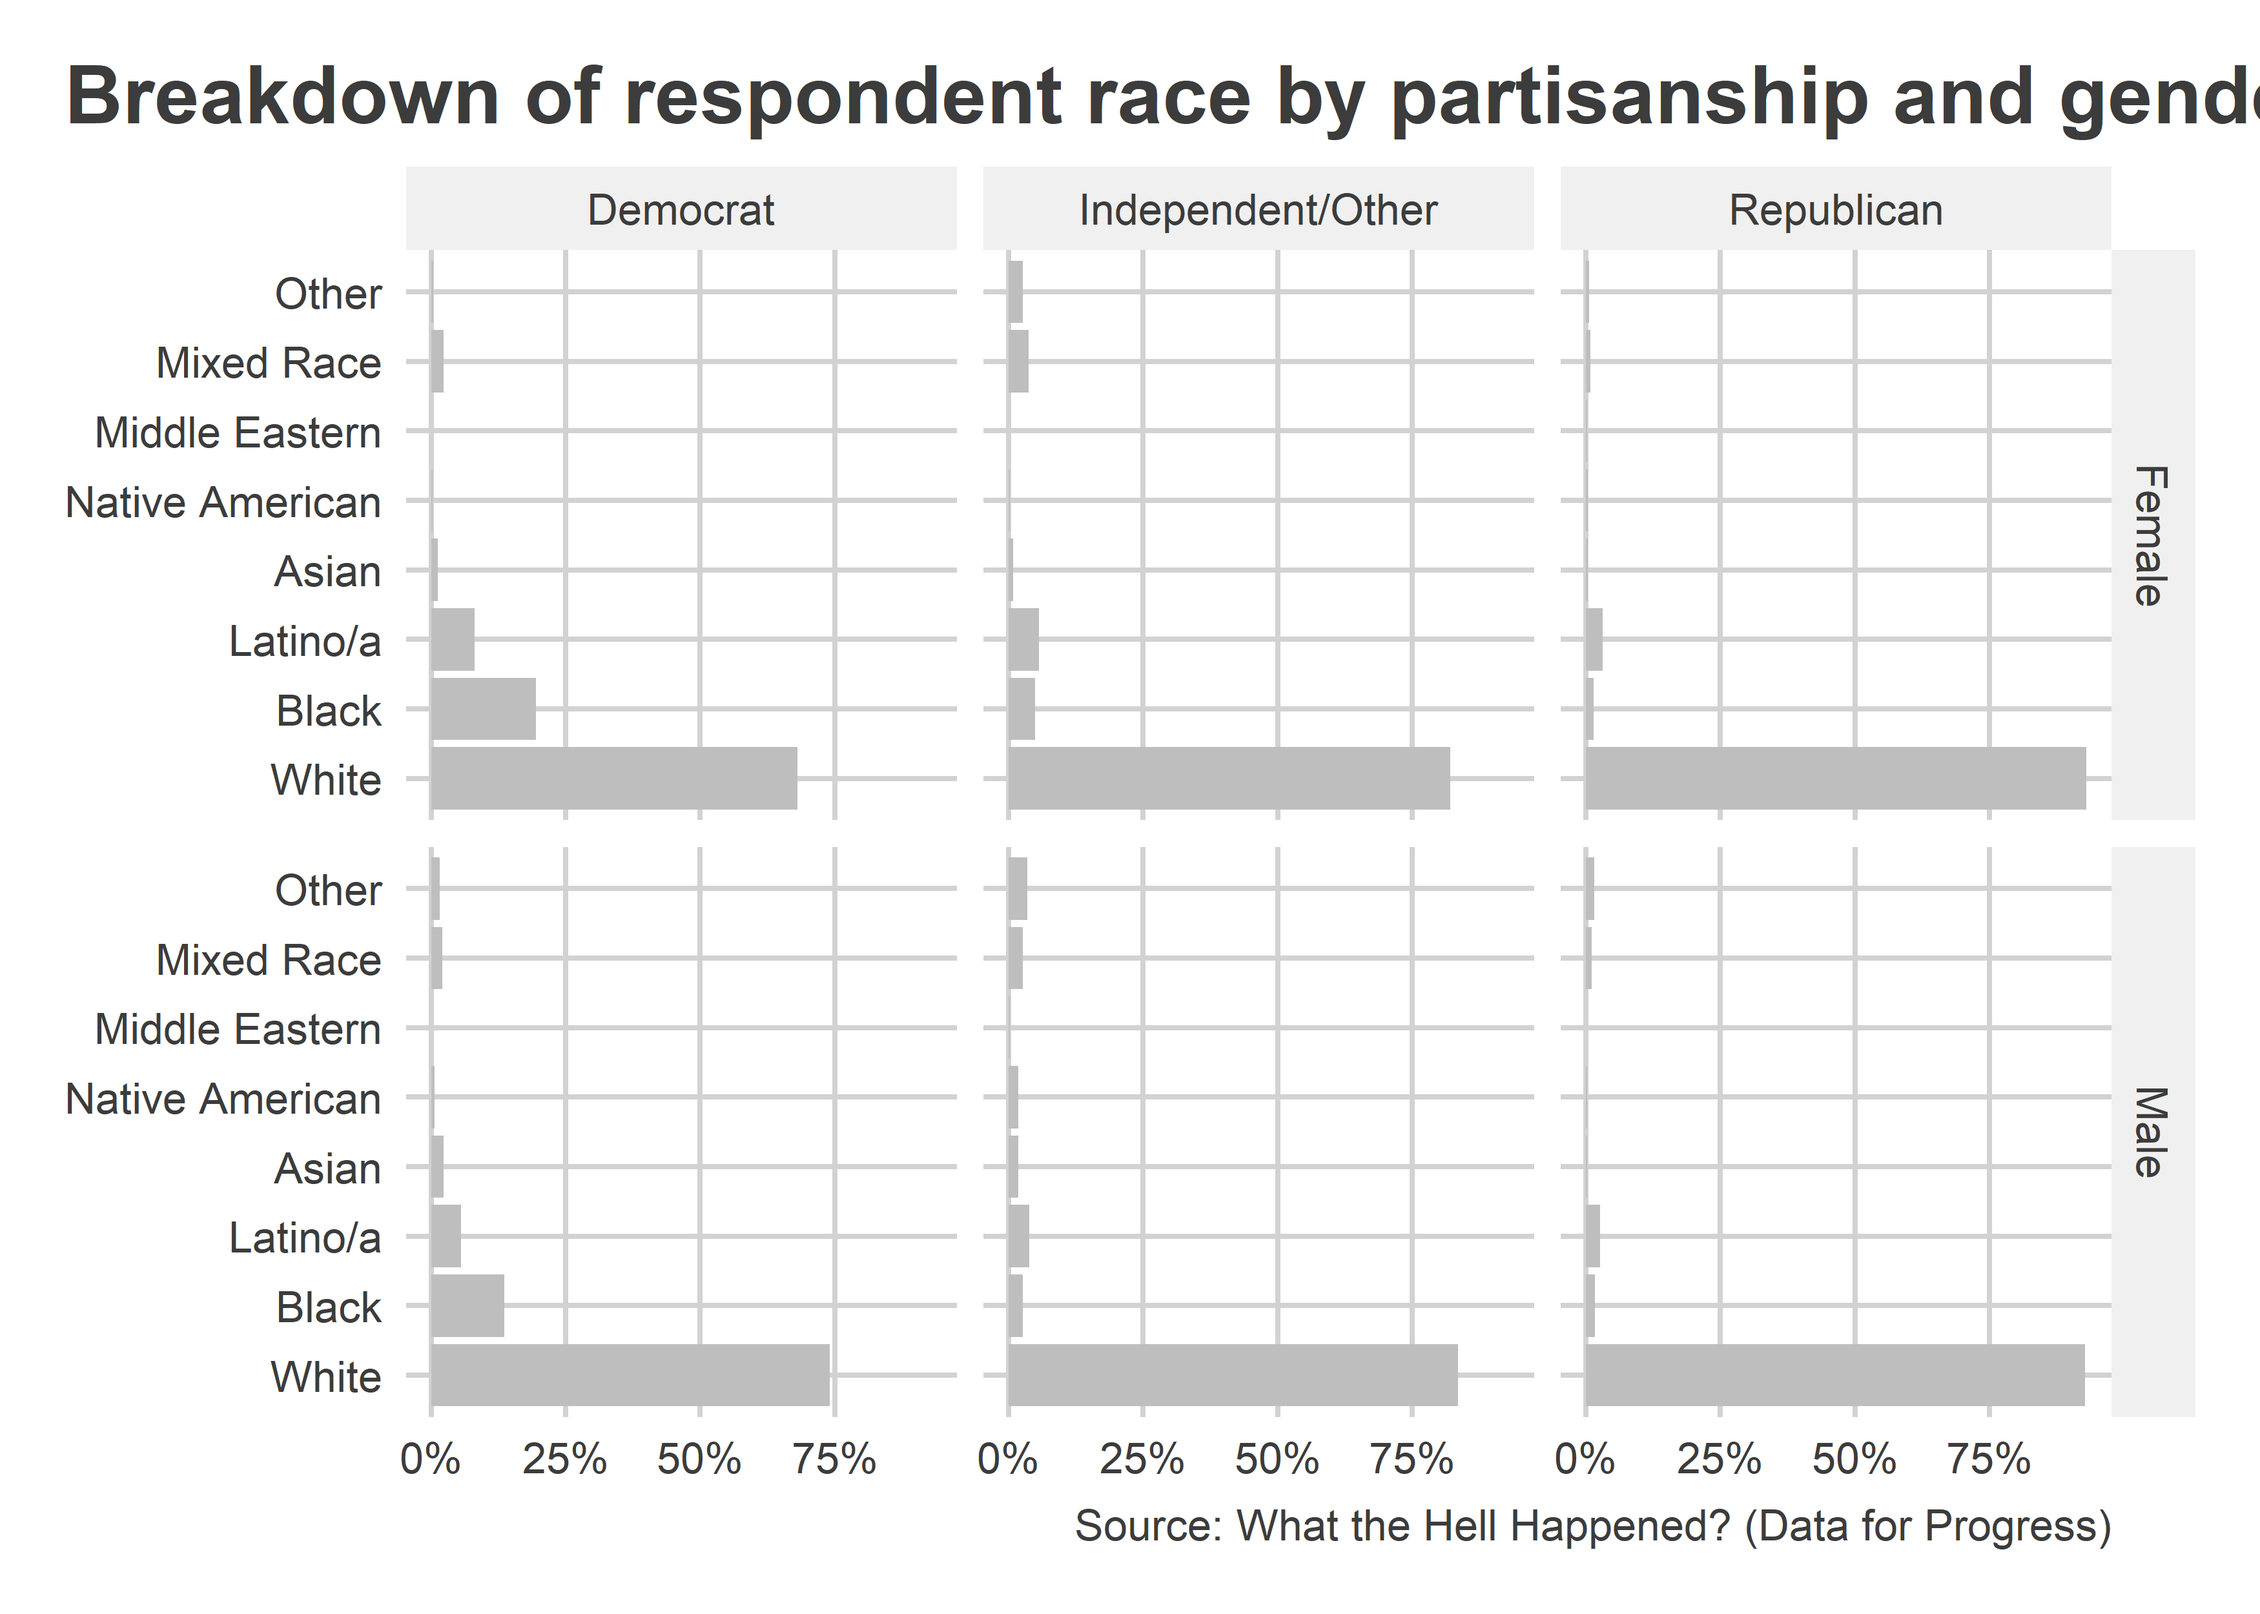
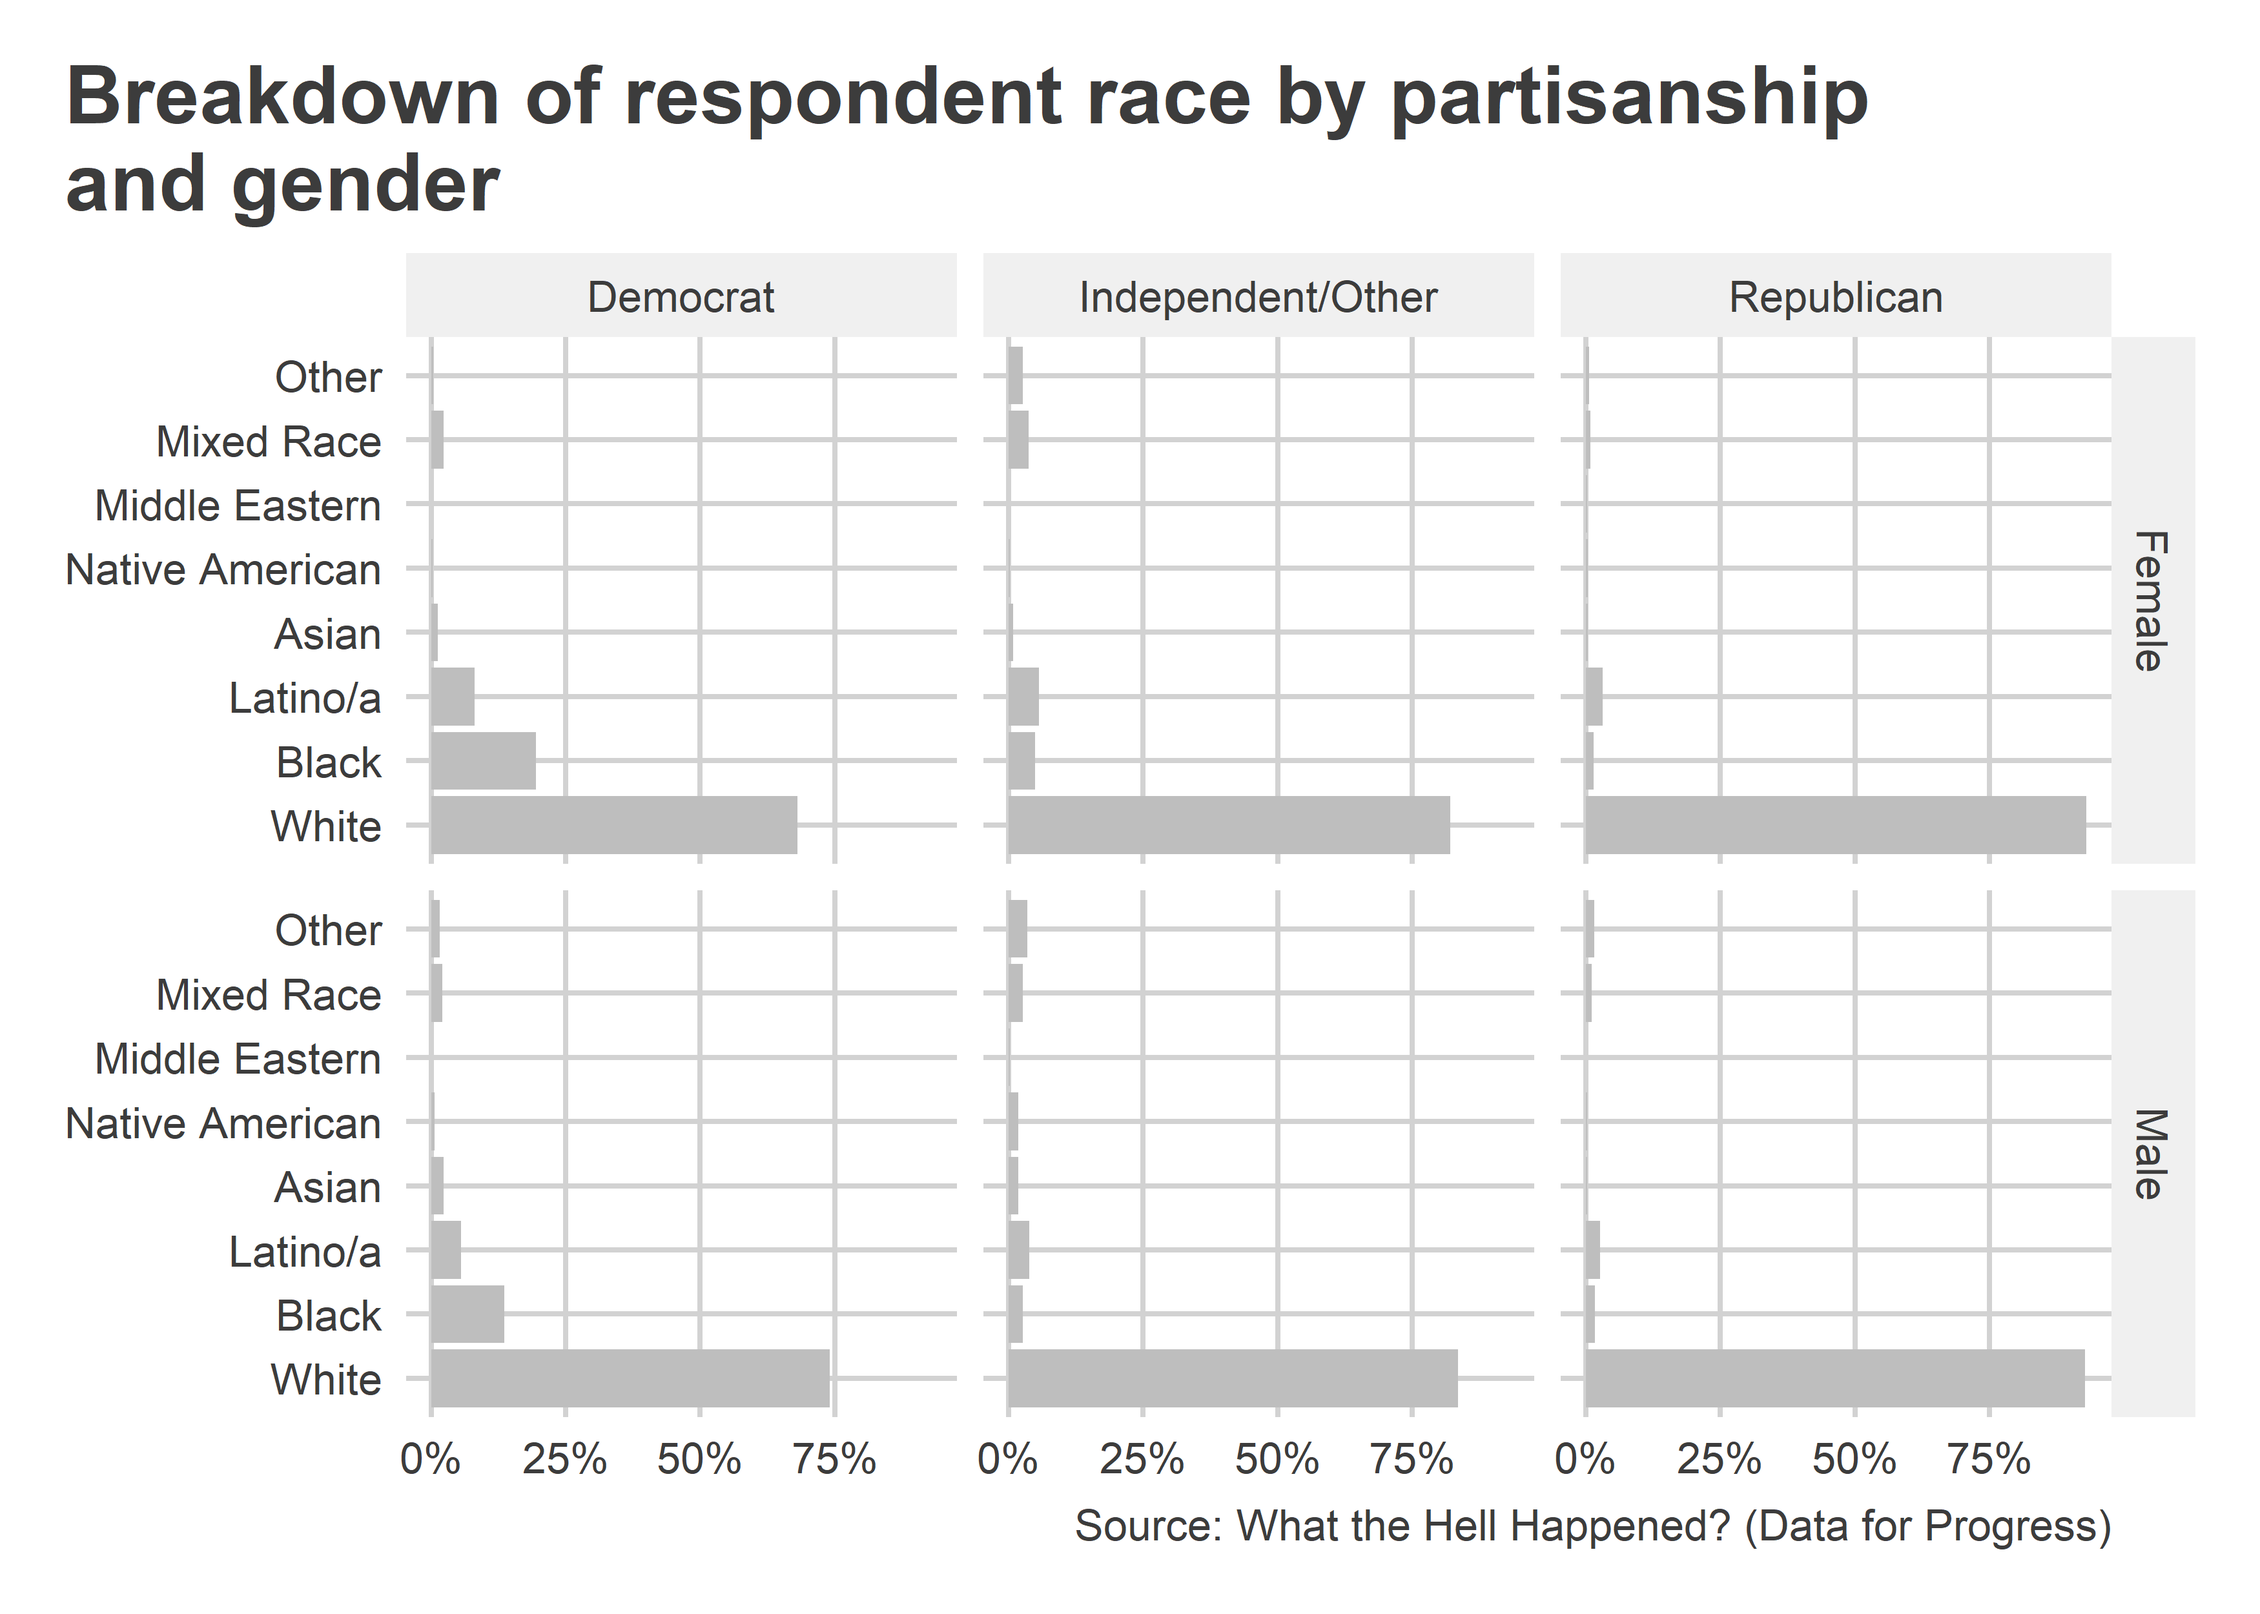
fixing runaway text on figures

Changed region(s): [[0.0311, 0.0936, 0.9654, 0.8736], [0.8409, 0.0312, 1.0, 0.0936], [0.654, 0.8424, 0.6851, 0.8736]]

diff --git a/DPR 101/Notes/15_survey_data_pt2.md b/DPR 101/Notes/15_survey_data_pt2.md
@@ -294,7 +294,7 @@ ggplot(Data) +
   labs(
     x = NULL,
     y = NULL,
-    title = "Breakdown of respondent age by gender and partisanship",
+    title = "Breakdown of respondent age by gender and\npartisanship",
     caption = "Source: What the Hell Happened? (Data for Progress)"
   )
 ```
@@ -323,7 +323,7 @@ Data |>
   labs(
     x = NULL,
     y = NULL,
-    title = "Breakdown of respondent race by partisanship and gender",
+    title = "Breakdown of respondent race by partisanship\nand gender",
     caption = "Source: What the Hell Happened? (Data for Progress)"
   )
 ```
@@ -351,7 +351,7 @@ Data |>
   labs(
     x = NULL,
     y = NULL,
-    title = "Breakdown of respondent race by partisanship and gender",
+    title = "Breakdown of respondent race by partisanship\nand gender",
     caption = "Source: What the Hell Happened? (Data for Progress)",
     fill = NULL
   )
